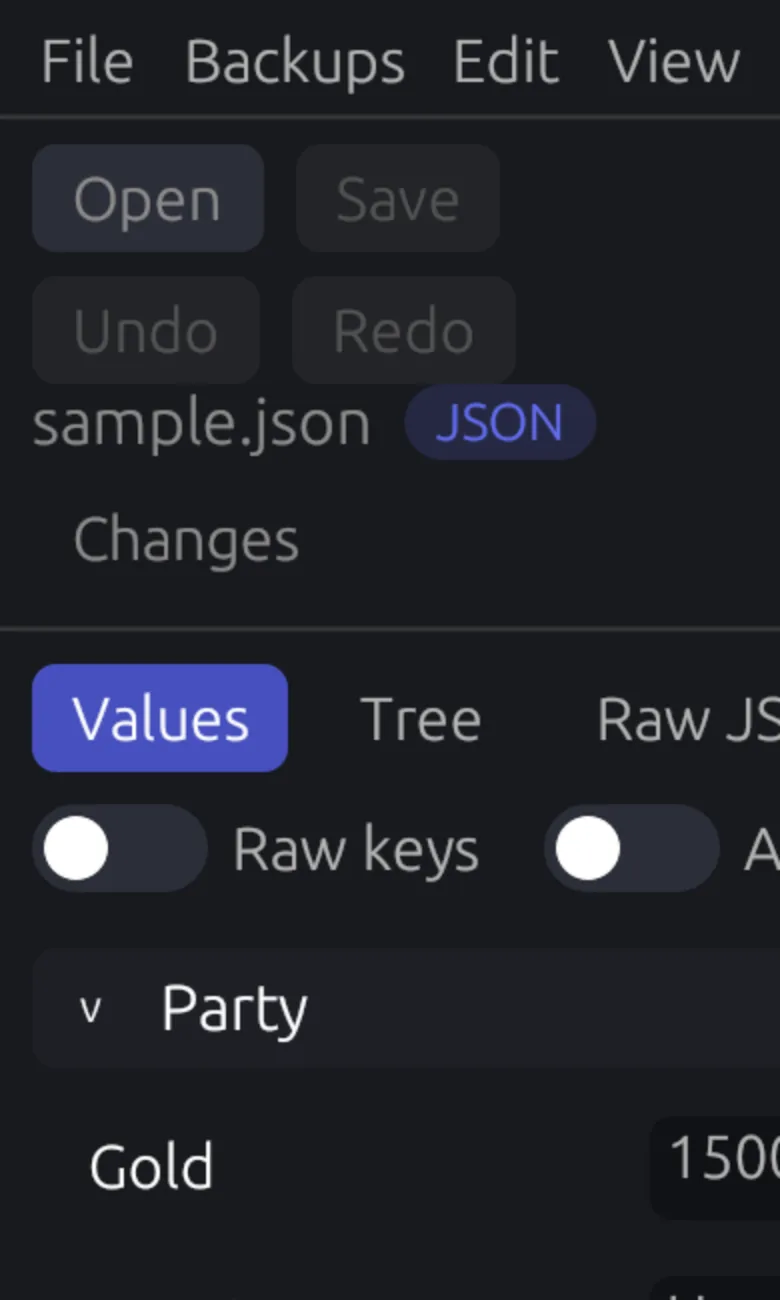
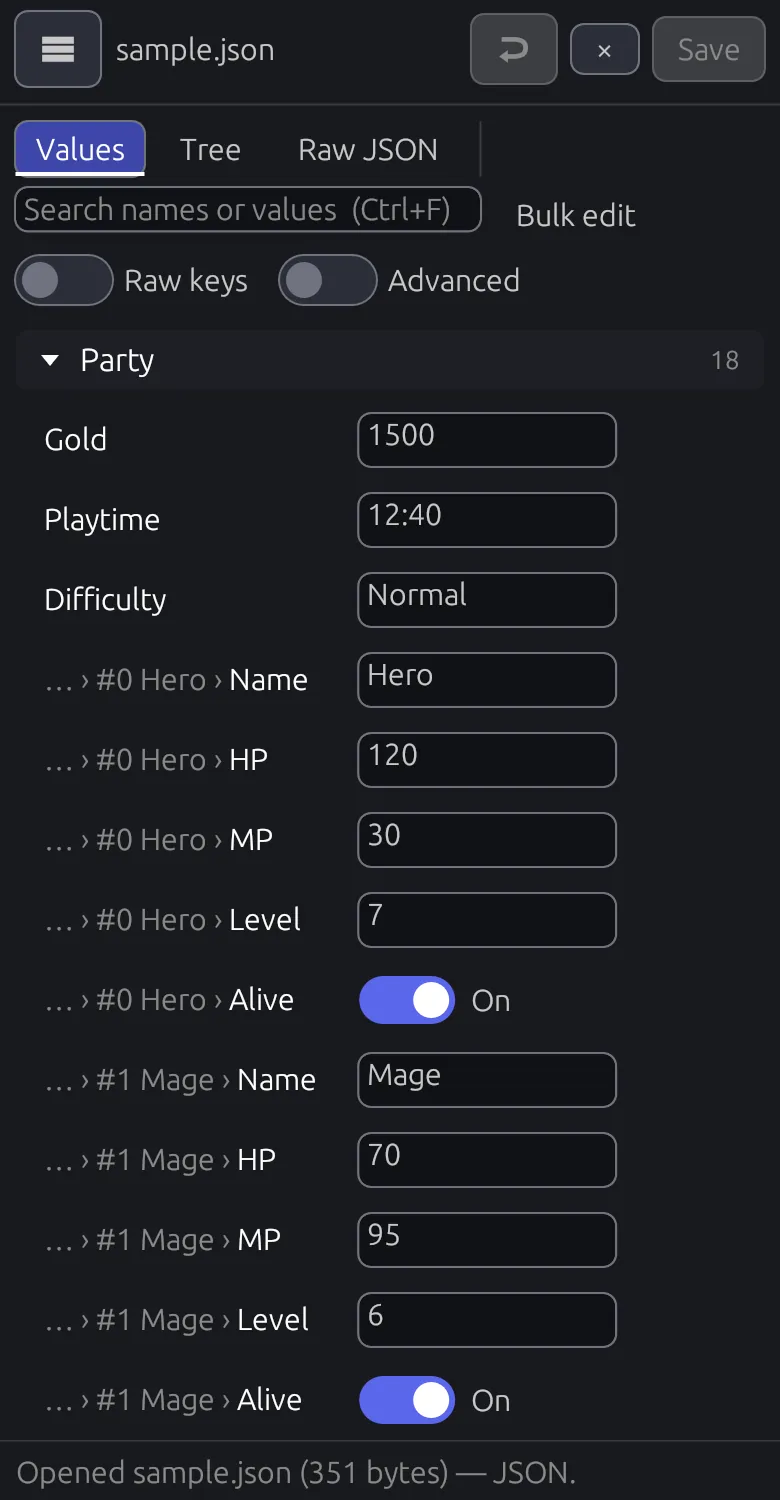
README and site: show the whole editor window in the main screenshot, with a proper phone-width view

diff --git a/docs/index.html b/docs/index.html
@@ -37,7 +37,7 @@
 <div class="card"><strong>Don't want to run a program?</strong> <a href="app/">The browser version</a> is the same editor, running inside the web page on your own computer: your save is never uploaded. It can't search your folders for saves or back them up for you, so open the file yourself and keep a copy; saving downloads the edited file. A few saves need the downloaded app (SQLite saves, and Palworld or Hogwarts Legacy saves).</div>
 <p><strong>Verify your download:</strong> every release has a <code>SHA256SUMS.txt</code>. Compare it with <code>sha256sum UniversalSaveEditor-&lt;version&gt;-linux-x64.tar.gz</code> (Linux) or <code>certutil -hashfile UniversalSaveEditor-&lt;version&gt;-windows-x64.exe SHA256</code> (Windows). The builds are not code-signed, so Windows may warn about a new file; a matching checksum shows it is the one published here. If Windows shows "Windows protected your PC", the file is new and unsigned, not harmful: click <em>More info</em>, then <em>Run anyway</em>.</p>
 <p><strong>Install with Scoop (Windows):</strong> <code>scoop install https://raw.githubusercontent.com/Lucasifium/universal-save-editor/main/packaging/scoop/universal-save-editor.json</code> installs it with a Start menu shortcut and checks the download for you; <code>scoop update universal-save-editor</code> gets new releases.</p>
-<figure class="shot"><picture><source media="(max-width: 600px)" type="image/webp" srcset="screenshot-phone.webp" width="780" height="1300"><source media="(max-width: 600px)" srcset="screenshot-phone.png" width="780" height="1300"><source type="image/webp" srcset="screenshot.webp"><img src="screenshot.png" width="2000" height="1520" alt="The editor with a save open: named values in groups, with number fields, text fields and switches" loading="lazy" decoding="async"></picture><figcaption>A save open in the editor: every value has a name, and numbers, text and switches are edited in place.</figcaption></figure>
+<figure class="shot"><picture><source media="(max-width: 600px)" type="image/webp" srcset="screenshot-phone.webp" width="780" height="1500"><source media="(max-width: 600px)" srcset="screenshot-phone.png" width="780" height="1500"><source type="image/webp" srcset="screenshot.webp"><img src="screenshot.png" width="2000" height="1322" alt="The editor with a save open: named values in groups, with number fields, text fields and switches" loading="lazy" decoding="async"></picture><figcaption>A save open in the editor: every value has a name, and numbers, text and switches are edited in place.</figcaption></figure>
 <h2>Why download a save editor?</h2>
 <ul>
 <li><strong>Free, forever.</strong> No price, no ads, no account, no paid tier.</li>

diff --git a/src/site.rs b/src/site.rs
@@ -906,7 +906,7 @@ fn build_site() {
 <div class="card"><strong>Don't want to run a program?</strong> <a href="{WEB_APP}">The browser version</a> is the same editor, running inside the web page on your own computer: your save is never uploaded. It can't search your folders for saves or back them up for you, so open the file yourself and keep a copy; saving downloads the edited file. A few saves need the downloaded app (SQLite saves, and Palworld or Hogwarts Legacy saves).</div>
 <p><strong>Verify your download:</strong> every release has a <code>SHA256SUMS.txt</code>. Compare it with <code>sha256sum UniversalSaveEditor-&lt;version&gt;-linux-x64.tar.gz</code> (Linux) or <code>certutil -hashfile UniversalSaveEditor-&lt;version&gt;-windows-x64.exe SHA256</code> (Windows). The builds are not code-signed, so Windows may warn about a new file; a matching checksum shows it is the one published here. If Windows shows "Windows protected your PC", the file is new and unsigned, not harmful: click <em>More info</em>, then <em>Run anyway</em>.</p>
 <p><strong>Install with Scoop (Windows):</strong> <code>scoop install https://raw.githubusercontent.com/Lucasifium/universal-save-editor/main/packaging/scoop/universal-save-editor.json</code> installs it with a Start menu shortcut and checks the download for you; <code>scoop update universal-save-editor</code> gets new releases.</p>
-<figure class="shot"><picture><source media="(max-width: 600px)" type="image/webp" srcset="screenshot-phone.webp" width="780" height="1300"><source media="(max-width: 600px)" srcset="screenshot-phone.png" width="780" height="1300"><source type="image/webp" srcset="screenshot.webp"><img src="screenshot.png" width="2000" height="1520" alt="The editor with a save open: named values in groups, with number fields, text fields and switches" loading="lazy" decoding="async"></picture><figcaption>A save open in the editor: every value has a name, and numbers, text and switches are edited in place.</figcaption></figure>
+<figure class="shot"><picture><source media="(max-width: 600px)" type="image/webp" srcset="screenshot-phone.webp" width="780" height="1500"><source media="(max-width: 600px)" srcset="screenshot-phone.png" width="780" height="1500"><source type="image/webp" srcset="screenshot.webp"><img src="screenshot.png" width="2000" height="1322" alt="The editor with a save open: named values in groups, with number fields, text fields and switches" loading="lazy" decoding="async"></picture><figcaption>A save open in the editor: every value has a name, and numbers, text and switches are edited in place.</figcaption></figure>
 <h2>Why download a save editor?</h2>
 {WHY}
 <h2 id="games">Games ({n})</h2>
